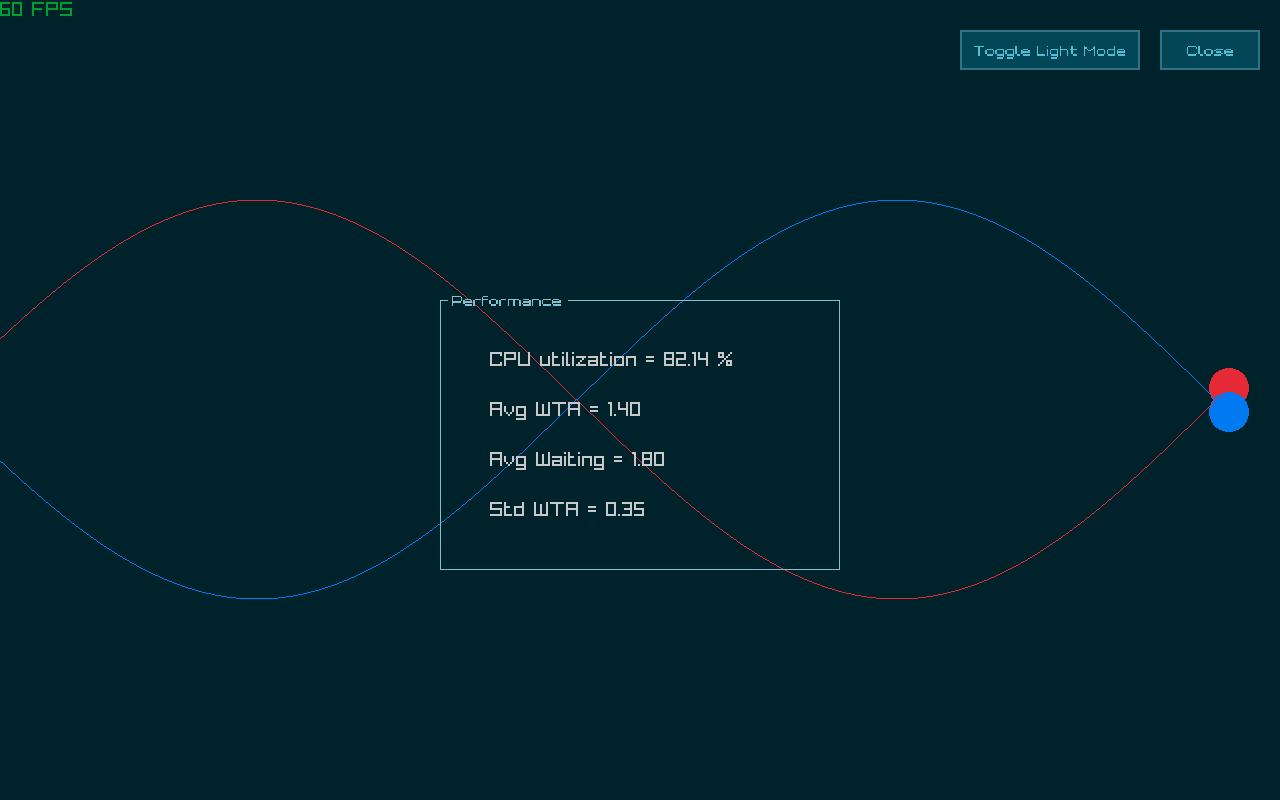
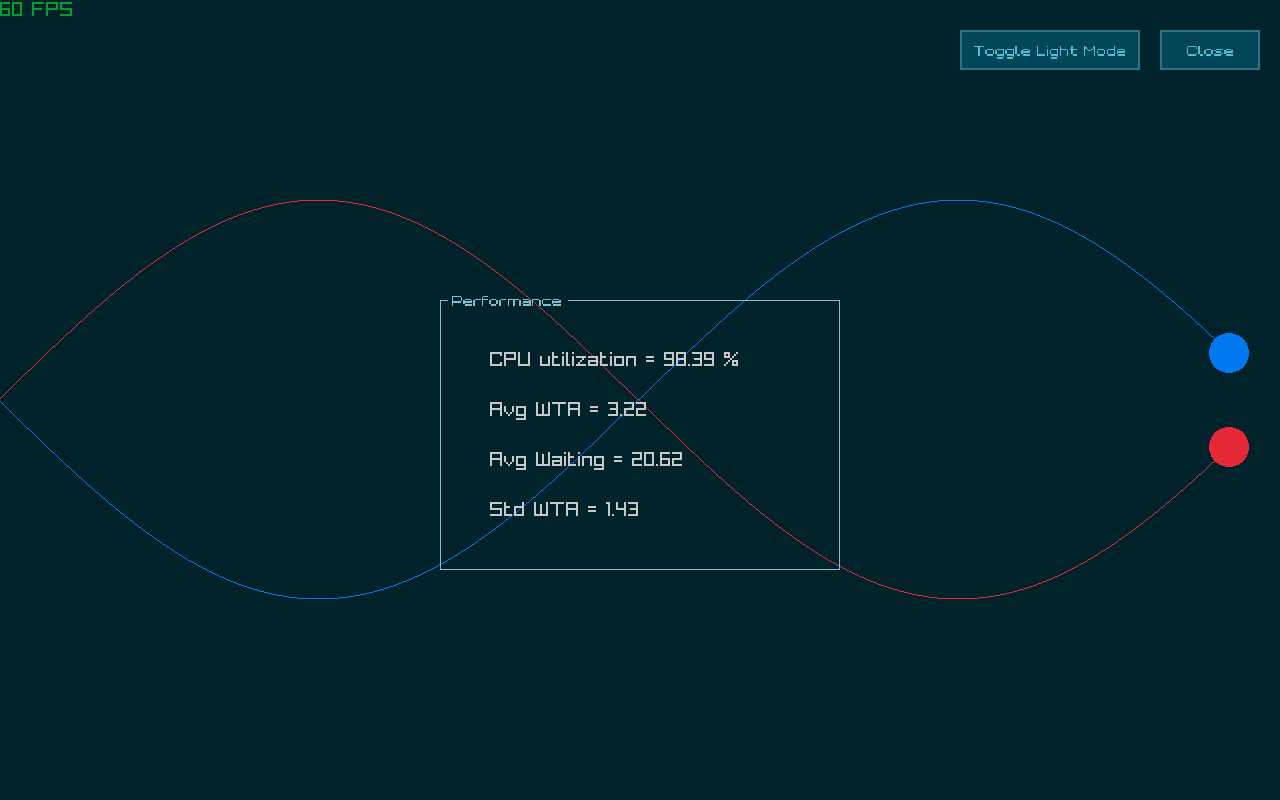
Final

diff --git a/gui.c b/gui.c
@@ -150,7 +150,7 @@ int main(void)
     int listViewScrollIndex2 = 0;
     int listViewActive2 = -1;
     char rdyList[5000] = "";
-
+    pid_t ProcessGen;
     char doneList[5000] = "";
     char workingList[1024] = "n/a";
 
@@ -210,8 +210,7 @@ int main(void)
     struct process ArrivedProcess;
     while (loop)
     {
-        if(ss ==1){
-             
+        if(ss ==1){ 
                 TakeScreenshot("schedulerperfimage.png");
                 ss =3;
         }
@@ -227,7 +226,7 @@ int main(void)
                     continue;
                 }
                 char temp[1000];
-                sprintf(temp, "P%d", rdyProcList[i].id);
+                sprintf(temp, "P%d;", rdyProcList[i].id);
                 strcat(rdyList, temp);
             }
         }
@@ -244,7 +243,7 @@ int main(void)
                     continue;
                 }
                 char temp[1000];
-                sprintf(temp, "P%d",rdyProcList[i].id);
+                sprintf(temp, "P%d;",rdyProcList[i].id);
                 strcat(rdyList, temp);
             }
         }
@@ -347,7 +346,7 @@ int main(void)
             GuiLabel((Rectangle){30, 50, screenWidth, 120}, "Choose a algorithm:");
             GuiSetStyle(DEFAULT, TEXT_SIZE, 30);
 
-            if (GuiDropdownBox((Rectangle){30, 180, 600, 60}, "Round Robin;Shortest Time Remaining Next;Highest Priority First", &algoChoice, dropdownAlgo))
+            if (GuiDropdownBox((Rectangle){30, 180, 600, 60}, "Round Robin;Shortest Remaining Time Next;Highest Priority First", &algoChoice, dropdownAlgo))
             {
                 dropdownAlgo = !dropdownAlgo;
             }
@@ -416,14 +415,14 @@ int main(void)
                     char algoChoicestr[5];
                     sprintf(algoChoicestr, "%d", algoChoice + 1);
                     char *args[] = {"./process_generator.out", fileDialogState.fileNameText, algoChoicestr, rrQuantum, NULL};
-                    pid_t ProcessGen = vfork();
+                    ProcessGen = vfork();
                     if (ProcessGen == 0)
                     {
                         execv(args[0], args);
                     }
                     pageShifter = 2;
                 }
-                if (!txtError && !rrError && !testgenError && genfile)
+                if (!rrError && !testgenError && genfile)
                 {
                     printf("eeeeeee");
                     char *args_test[] = {"./test_generator.out", ProcessCount, NULL};
@@ -438,7 +437,7 @@ int main(void)
                     char algoChoicestr[5];
                     sprintf(algoChoicestr, "%d", algoChoice + 1);
                     char *args[] = {"./process_generator.out", "processes.txt", algoChoicestr, rrQuantum, NULL};
-                    pid_t ProcessGen = vfork();
+                    ProcessGen = vfork();
                     if (ProcessGen == 0)
                     {
                         execv(args[0], args);
@@ -508,7 +507,7 @@ int main(void)
     }
     shmctl(runningID, IPC_RMID, NULL);
     shmctl(deadID, IPC_RMID, NULL);
-
+    kill(ProcessGen, SIGINT);
     CloseWindow();
 
     return 0;

diff --git a/HPF.h b/HPF.h
@@ -50,6 +50,7 @@ void LogFinished(struct process proc, int noOfProcesses, int *runningTimeSum, fl
 {
     int clock = getClk();
     FILE *filePointer;
+    float wta;
     filePointer = fopen("scheduler.log", "a");
     if (filePointer == NULL)
     {
@@ -57,12 +58,15 @@ void LogFinished(struct process proc, int noOfProcesses, int *runningTimeSum, fl
         return;
     }
     *shared = proc.id;
+    
+    wta = ((float)clock - proc.arrivaltime) / (float)proc.runningtime;
+        
     fprintf(filePointer, "At time %d, process %d finished. Arr: %d, remain: %d,Total:%d, wait: %d. TA %d WTA %.2f\n",
-            clock, proc.id, proc.arrivaltime, proc.remainingtime, proc.runningtime, clock - proc.arrivaltime - proc.runningtime, clock - proc.arrivaltime, ((float)clock - proc.arrivaltime) / (float)proc.runningtime);
+            clock, proc.id, proc.arrivaltime, proc.remainingtime, proc.runningtime, clock - proc.arrivaltime - proc.runningtime, clock - proc.arrivaltime, wta);
     *runningTimeSum += proc.runningtime;
-    *WTASum += ((float)clock - proc.arrivaltime) / (float)proc.runningtime;
+    *WTASum += wta;
     *waitingTimeSum += clock - proc.arrivaltime - proc.runningtime;
-    TAArray[*TAArrayIndex] = ((float)clock - proc.arrivaltime) / (float)proc.runningtime;
+    TAArray[*TAArrayIndex] = wta;
     *TAArrayIndex = *TAArrayIndex + 1;
     fclose(filePointer);
 }
@@ -156,8 +160,7 @@ void HPF(int noOfProcesses)
         clk = getClk();
         printf("Current clock = %d\n", clk);
         while(getSync() == 0);
-        while (ReceiveProcessHPF(minHeap, ReadyQueueID))
-            ;
+        while (ReceiveProcessHPF(minHeap, ReadyQueueID));
         if (minHeap->heap_size > 0)
         {
             if (firstarrived)
@@ -167,7 +170,6 @@ void HPF(int noOfProcesses)
                 LogStarted(currentProcess,runningProcess);
             }
             struct msgbuff receivedmsg;
-           
             int received = msgrcv(ReceiveQueueID, &receivedmsg, sizeof(receivedmsg.msg), 0, IPC_NOWAIT);
             if (received != -1)
             {
@@ -189,6 +191,7 @@ void HPF(int noOfProcesses)
             }
             if (minHeap->heap_size == 0)
             {
+                firstarrived = true;
                 continue;
             }
             struct msgbuff sendmsg;

diff --git a/RoundRobin.h b/RoundRobin.h
@@ -65,6 +65,7 @@ void LogFinishedRR(struct process proc, int noOfProcesses, int *runningTimeSum, 
 
     int clock = getClk();
     FILE *filePointer;
+    float wta;
     filePointer = fopen("scheduler.log", "a");
     if (filePointer == NULL)
     {
@@ -73,13 +74,15 @@ void LogFinishedRR(struct process proc, int noOfProcesses, int *runningTimeSum, 
     }
     if (proc.remainingtime == 0)
     {
-
+        
+        wta = ((float)clock - proc.arrivaltime) / (float)proc.runningtime;
+        
         fprintf(filePointer, "At time %d, process %d finished. Arr: %d, remain: %d,Total:%d, wait: %d. TA %d WTA %.2f\n",
-                clock, proc.id, proc.arrivaltime, proc.remainingtime, proc.runningtime, clock - proc.arrivaltime - proc.runningtime, clock - proc.arrivaltime, ((float)clock - proc.arrivaltime) / (float)proc.runningtime);
+                clock, proc.id, proc.arrivaltime, proc.remainingtime, proc.runningtime, clock - proc.arrivaltime - proc.runningtime, clock - proc.arrivaltime, wta);
         *runningTimeSum += proc.runningtime;
-        *WTASum += ((float)clock - proc.arrivaltime) / (float)proc.runningtime;
+        *WTASum += wta;
         *waitingTimeSum += clock - proc.arrivaltime - proc.runningtime;
-        TAArray[*TAArrayIndex] = ((float)clock - proc.arrivaltime) / (float)proc.runningtime;
+        TAArray[*TAArrayIndex] = wta;
         *TAArrayIndex = *TAArrayIndex + 1;
         *shared = proc.id;
     }
@@ -93,7 +96,7 @@ void LogFinishedRR(struct process proc, int noOfProcesses, int *runningTimeSum, 
 void RoundRobin(int quantum, int processCount)
 {
     printf("Round Robin Scheduler\n");
-     key_t runningProcKey = ftok("keys/Guirunningman", 'A');
+    key_t runningProcKey = ftok("keys/Guirunningman", 'A');
     int runningID = shmget(runningProcKey, 4, IPC_CREAT | 0644);
     if ((long)runningID == -1)
     {

diff --git a/SRTN.h b/SRTN.h
@@ -70,6 +70,7 @@ void LogFinishedSRTN(struct process *proc, int noOfProcesses, int *runningTimeSu
         return;
     }
     int clock = getClk();
+    float wta;
     FILE *filePointer;
     filePointer = fopen("scheduler.log", "a");
     if (filePointer == NULL)
@@ -79,13 +80,13 @@ void LogFinishedSRTN(struct process *proc, int noOfProcesses, int *runningTimeSu
     }
     if (proc->remainingtime == 0)
     {
-
+        wta = ((float)clock - proc->arrivaltime) / (float)proc->runningtime;
         fprintf(filePointer, "At time %d, process %d finished. Arr: %d, remain: %d,Total:%d, wait: %d. TA %d WTA %.2f\n",
-                clock, proc->id, proc->arrivaltime, proc->remainingtime, proc->runningtime, clock - proc->arrivaltime - proc->runningtime, clock - proc->arrivaltime, ((float)clock - proc->arrivaltime) / (float)proc->runningtime);
+                clock, proc->id, proc->arrivaltime, proc->remainingtime, proc->runningtime, clock - proc->arrivaltime - proc->runningtime, clock - proc->arrivaltime, wta);
         *runningTimeSum += proc->runningtime;
-        *WTASum += ((float)clock - proc->arrivaltime) / (float)proc->runningtime;
+        *WTASum +=wta;
         *waitingTimeSum += clock - proc->arrivaltime - proc->runningtime;
-        TAArray[*TAArrayIndex] = ((float)clock - proc->arrivaltime) / (float)proc->runningtime;
+        TAArray[*TAArrayIndex] = wta;
         *TAArrayIndex = *TAArrayIndex + 1;
         *shared = proc->id;
     }
